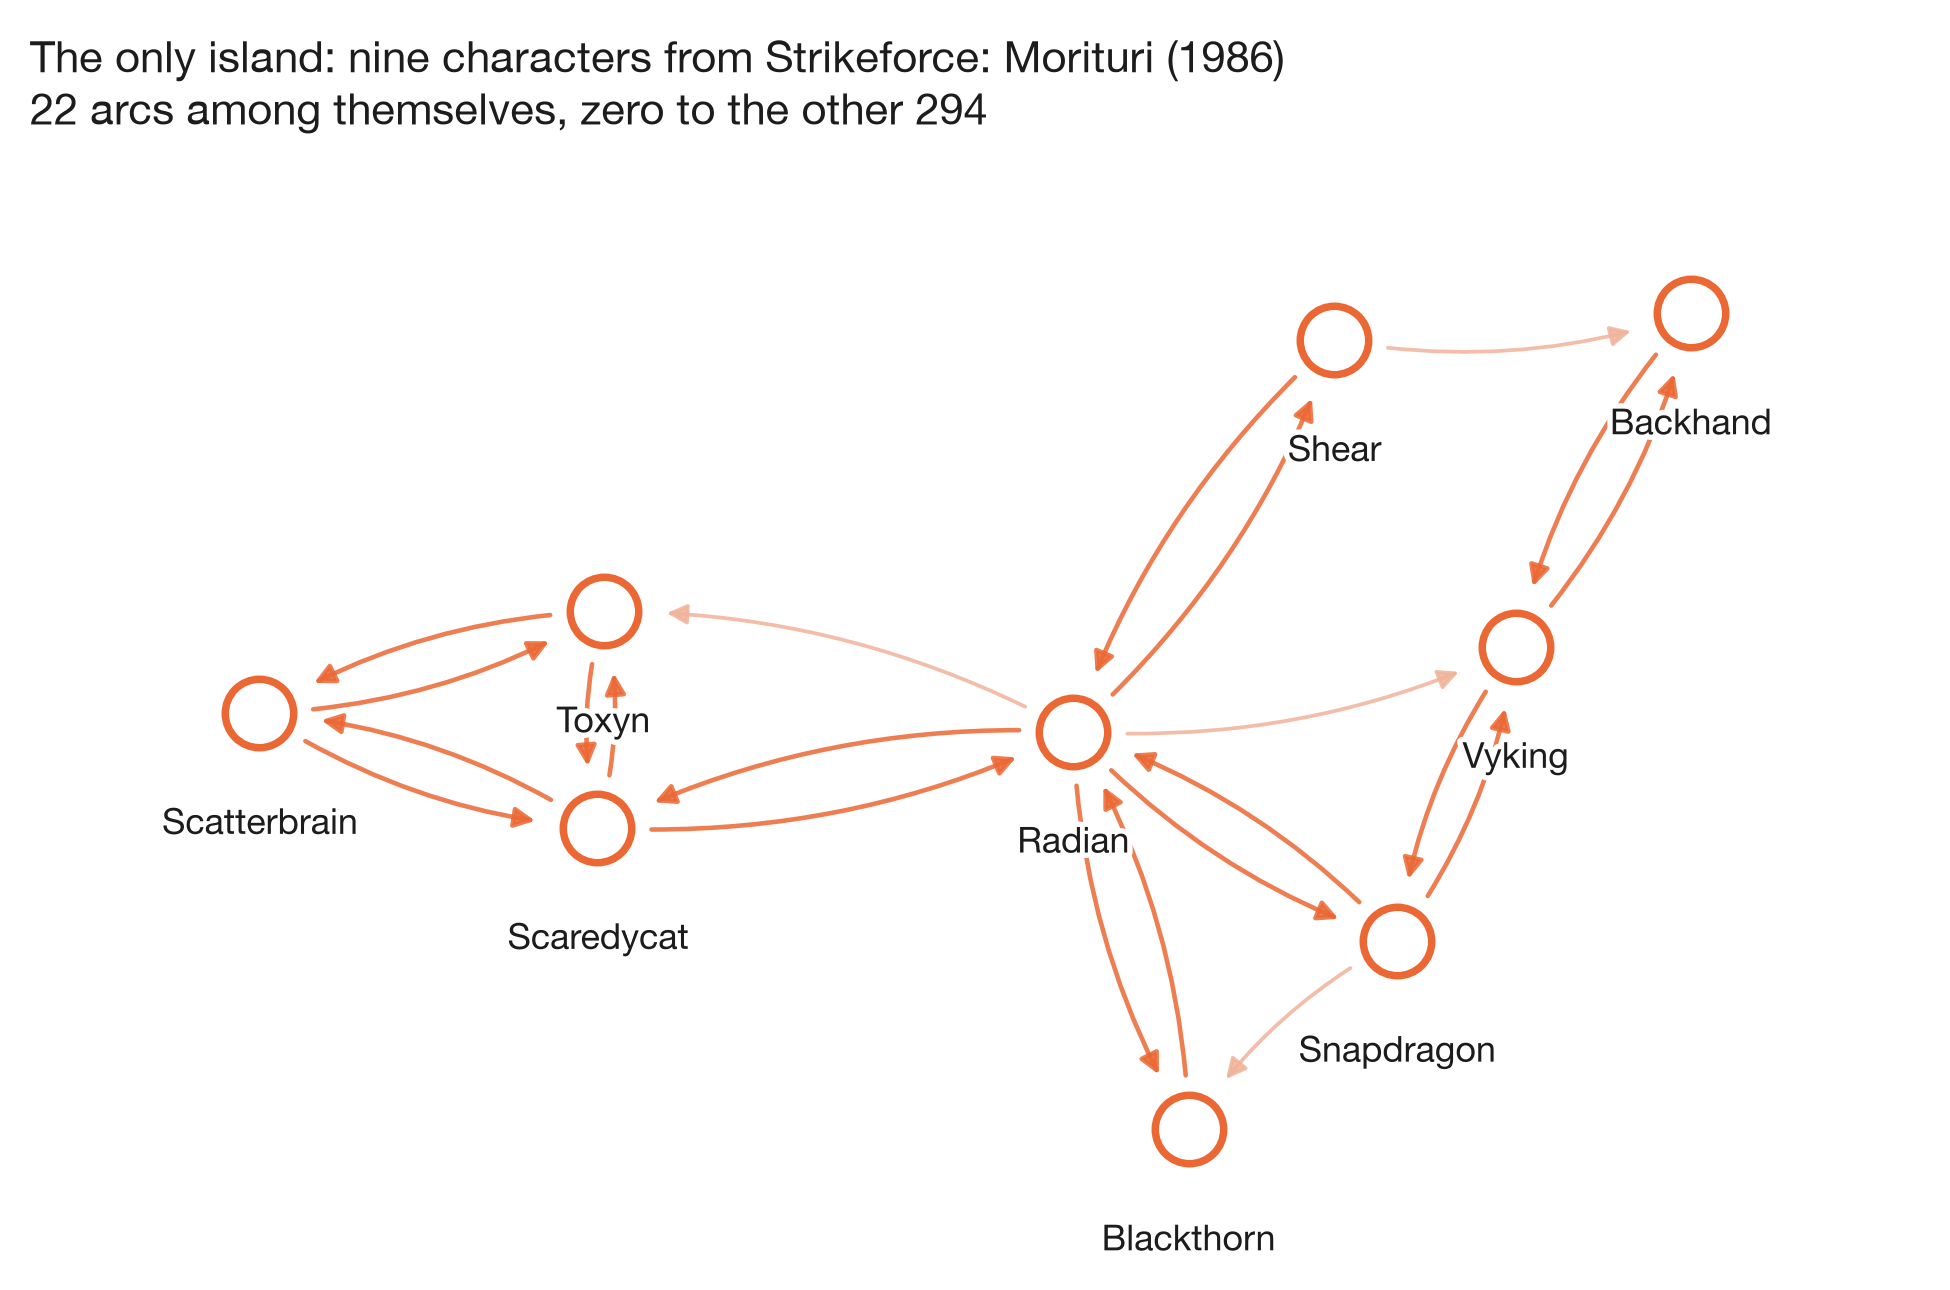
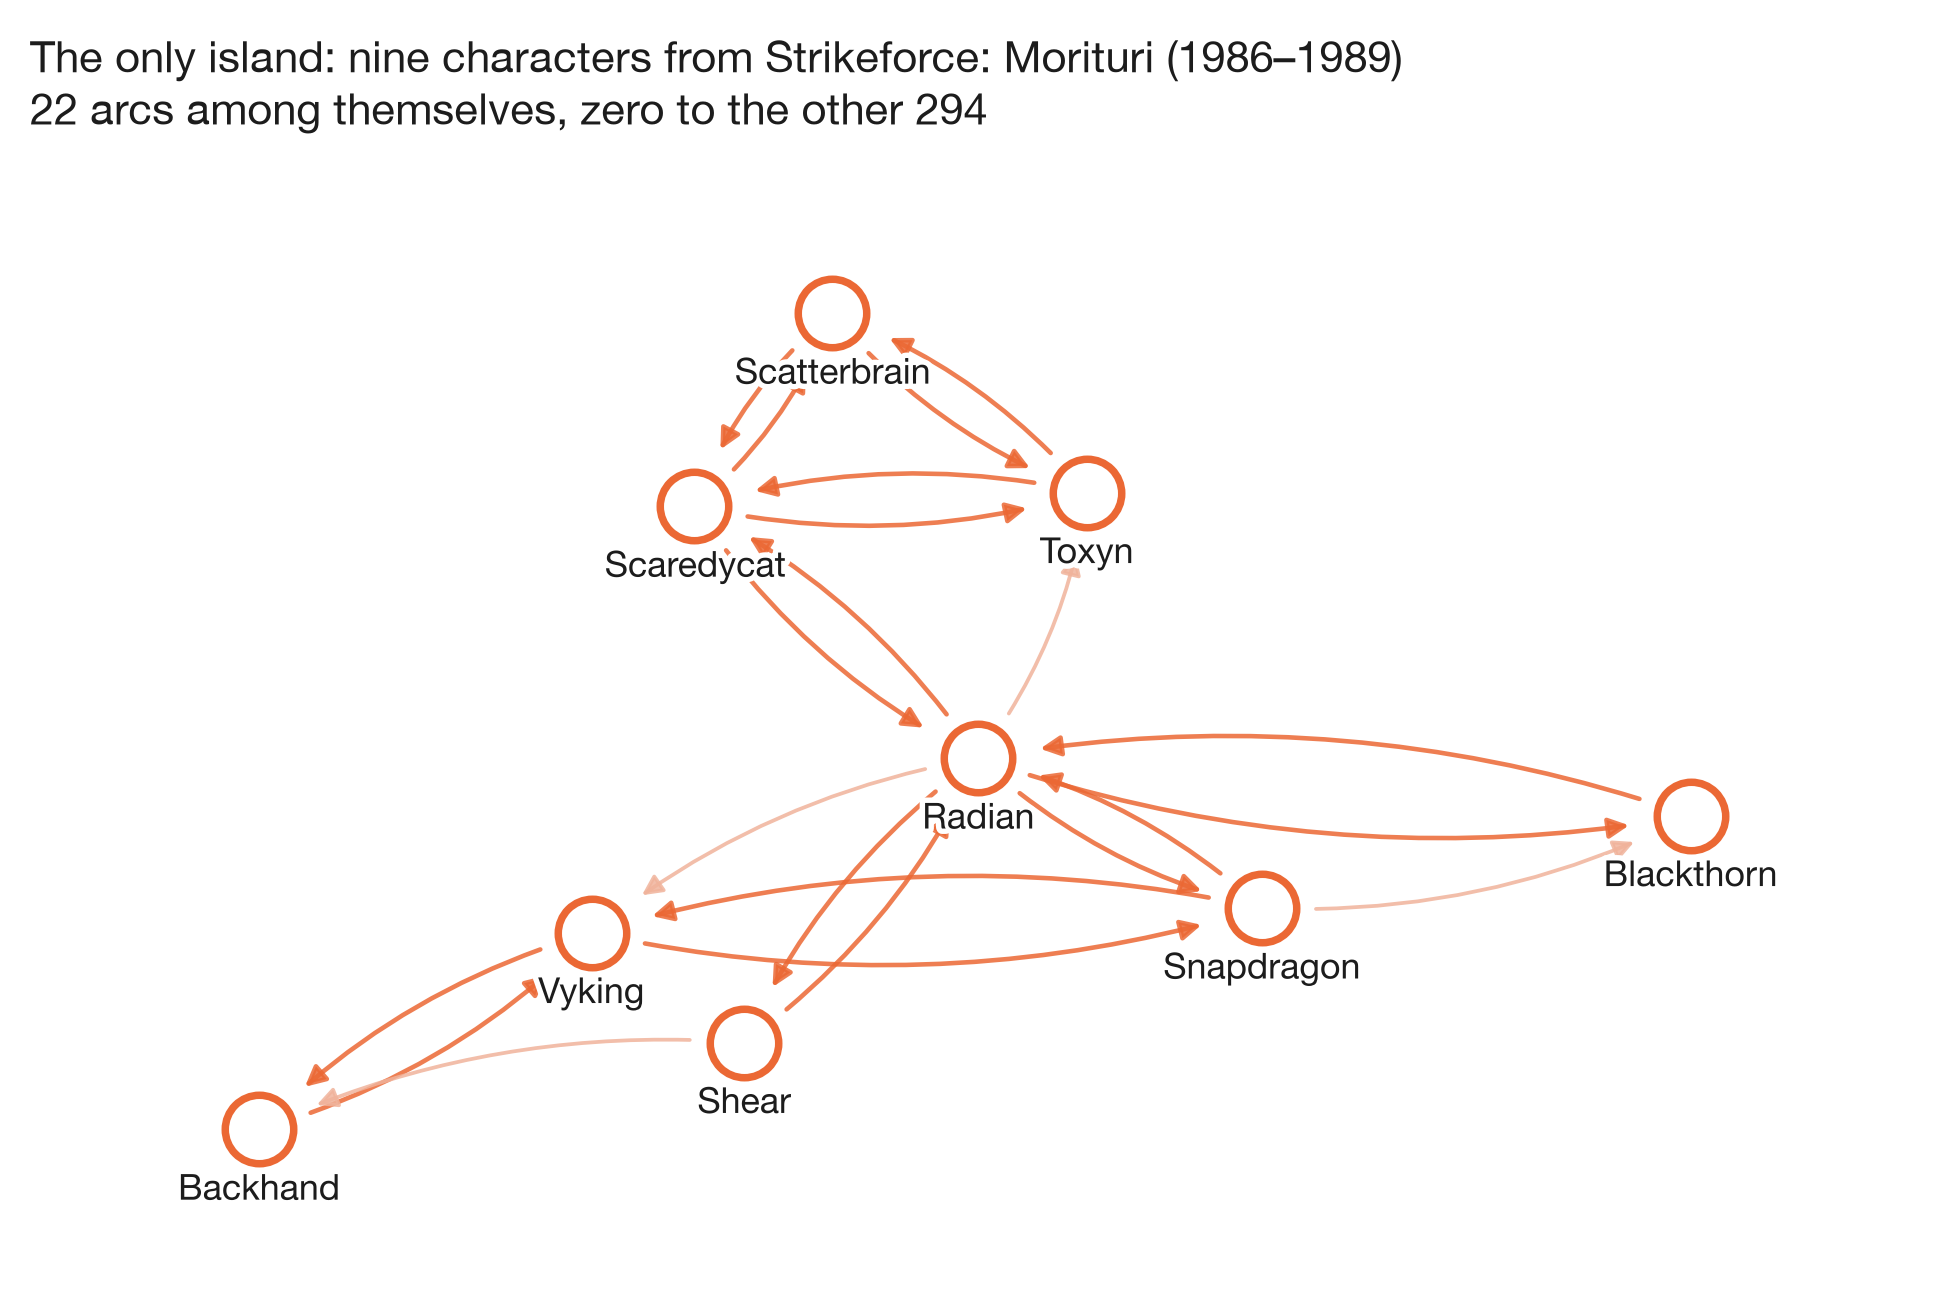
fix(week01): draw the island and map the same way under every hash seed
island.png and map.png did not reproduce: rerunning week01_figures.py
drew a different island layout each time. D.subgraph() walks the member
set itself when the subgraph is small, so the island's node order, and
with it the seeded spring layout, followed PYTHONHASHSEED. The map also
scattered each group in set order, which changes how overlapping dots
stack. Subgraphs and scatter order now follow the roster.

The committed PNGs came from one arbitrary seed, so both are redrawn:
same nodes, arcs, labels and image size, new positions. All four
figures are now byte-identical under PYTHONHASHSEED 0, 1 and 2. The
island's title now says 1986-1989, as the page has since #58.

diff --git a/analysis/week01_figures.py b/analysis/week01_figures.py
@@ -42,6 +42,18 @@ url = dict(zip(nodes.node_id, nodes.url))
 N = D.number_of_nodes()
 kin, kout = dict(D.in_degree()), dict(D.out_degree())
 
+
+def induced(members):
+    """D restricted to members, in the roster's node order. D.subgraph() walks
+    the member set itself when it is small, so the island's node order, and
+    with it every seeded layout below, changed with PYTHONHASHSEED."""
+    keep = set(members)
+    S = nx.DiGraph()
+    S.add_nodes_from(n for n in D if n in keep)
+    S.add_edges_from((u, v) for u, v in D.edges() if u in keep and v in keep)
+    return S
+
+
 wcc = sorted(nx.weakly_connected_components(D), key=len, reverse=True)
 giant, island = wcc[0], wcc[1]
 isolates = sorted(nx.isolates(D))
@@ -62,7 +74,7 @@ def halo(t):
 
 # ---------------------------------------------------------------- 1. the map
 def figure_map():
-    Gg = D.subgraph(giant).to_undirected()
+    Gg = induced(giant).to_undirected()
     pos = nx.spring_layout(Gg, k=0.55, iterations=600, seed=7)
     P = np.array([pos[n] for n in Gg])
     P = P - P.mean(0)
@@ -71,7 +83,7 @@ def figure_map():
     P = P * (r ** 0.62) / np.where(r == 0, 1, r)          # push r -> r^0.62
     pos = {n: p for n, p in zip(Gg, P)}
 
-    Gi = D.subgraph(island).to_undirected()
+    Gi = induced(island).to_undirected()
     ip = nx.spring_layout(Gi, k=1.0, iterations=400, seed=3)
     IP = np.array([ip[n] for n in Gi])
     IP = (IP - IP.mean(0)) / np.abs(IP - IP.mean(0)).max() * 0.30
@@ -88,7 +100,7 @@ def figure_map():
 
     cmap = LinearSegmentedColormap.from_list("b", ["#d3e2f4", "#2a78d6", "#0e2f57"])
     for group, colour in [(giant, None), (island, ORANGE), (set(isolates), GREEN)]:
-        ns = list(group)
+        ns = [n for n in D if n in group]                    # roster order, not set order
         xy = np.array([pos[n] for n in ns])
         sz = np.array([22 + 13 * np.sqrt(kin[n] + kout[n]) for n in ns])
         c = cmap(np.array([kin[n] for n in ns]) ** 0.45 / 106 ** 0.45) if colour is None else colour
@@ -181,7 +193,7 @@ def figure_scatter():
 # ------------------------------------------------------------- 4. the island
 def figure_island():
     fig, ax = plt.subplots(figsize=(6.6, 4.4))
-    S = D.subgraph(island)
+    S = induced(island)
     pos = nx.spring_layout(S.to_undirected(), k=1.1, iterations=500, seed=11)
     for u, v in S.edges():
         x0, y0 = pos[u]; x1, y1 = pos[v]
@@ -197,7 +209,7 @@ def figure_island():
         halo(ax.text(pos[n][0], pos[n][1] - .155, name[n].split(" (")[0],
                      fontsize=8.6, color=INK, ha="center", zorder=4))
     ax.axis("off")
-    ax.set_title(f"The only island: {spell(len(island))} characters from Strikeforce: Morituri (1986)\n"
+    ax.set_title(f"The only island: {spell(len(island))} characters from Strikeforce: Morituri (1986–1989)\n"
                  f"{S.number_of_edges()} arcs among themselves, zero to the other {N - len(island)}",
                  fontsize=10.5, color=INK, loc="left", pad=14)
     ax.margins(.16)
